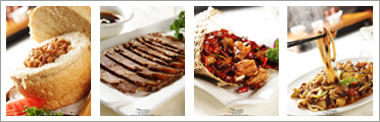
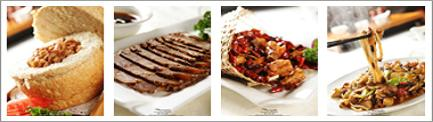
modify image

diff --git a/app/assets/stylesheets/home.css b/app/assets/stylesheets/home.css
@@ -29,7 +29,7 @@ body {
   line-height: 40px;
 }
 .container-fluid.container-fluid-1 {
-  background: #ffffff url(background.png) no-repeat center bottom;
+  background: #ffffff url(background.jpg) no-repeat center bottom;
   background-size: cover;
 }
 .container-fluid.container-fluid-1 #fluid-blank {
@@ -50,7 +50,7 @@ body {
   height: 162px;
 }
 .container-fluid.about {
-  background: #ffffff url(about.png) no-repeat center top;
+  background: #ffffff url(about.jpg) no-repeat center top;
   background-size: cover;
 }
 .container-fluid.about #fluid-blank {
